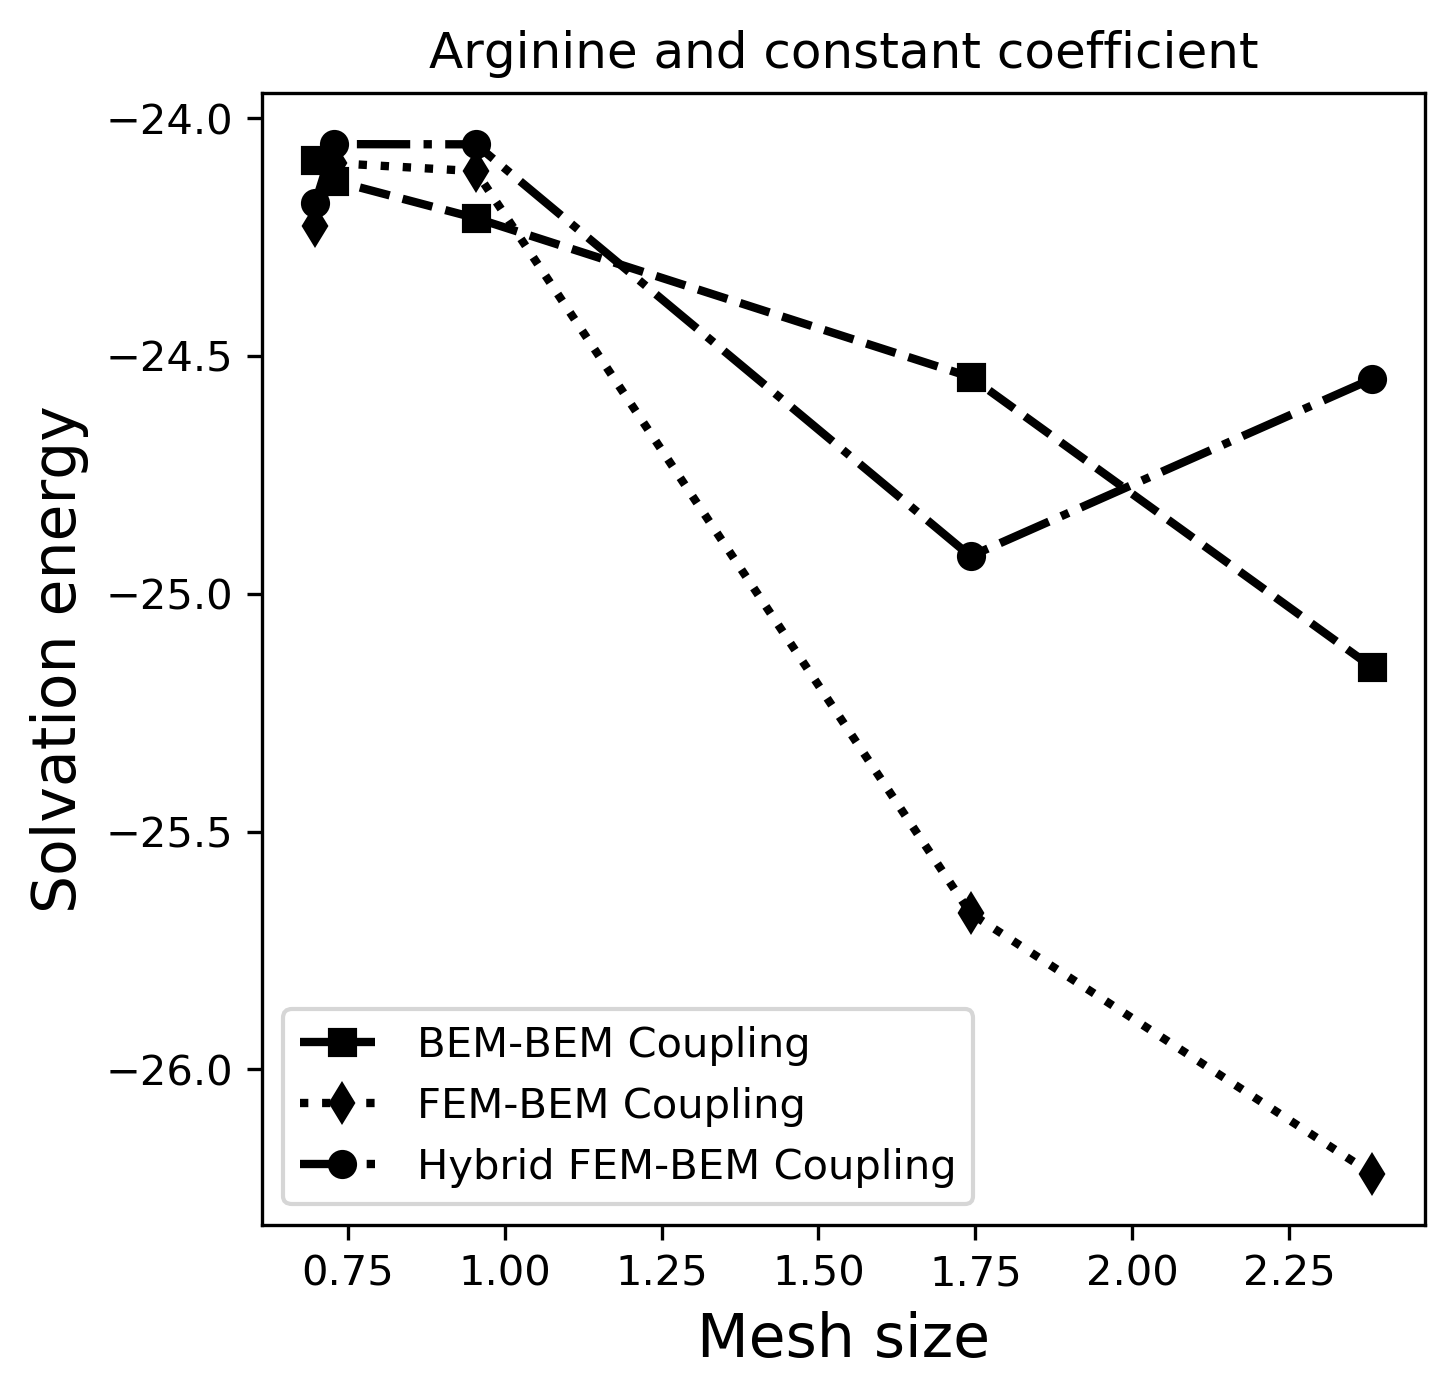
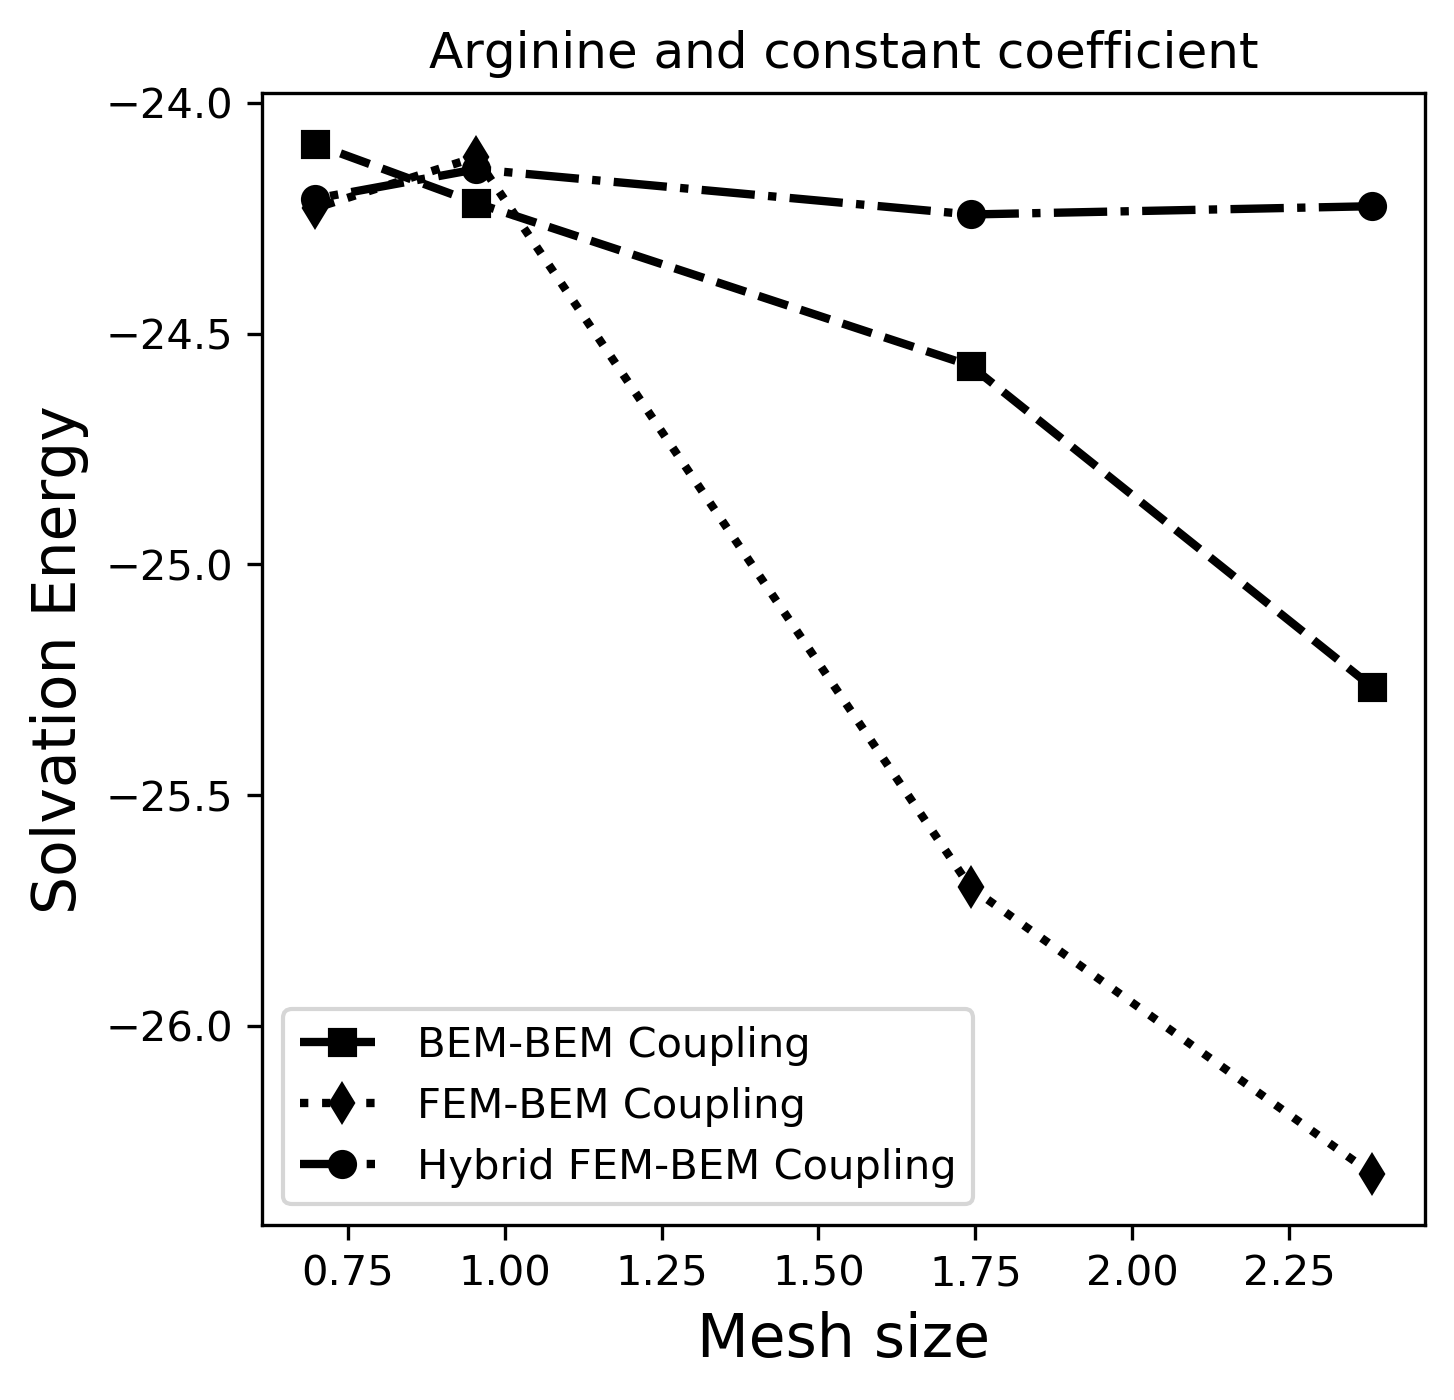
Updated plots and manuscript
I attach plots with preconditioner and without. It give a little more understanding of behaviour of each method, at least I think so. We should discuss that.
In terms of manuscript, I am sorry, it is quite rough draft, but I am struggling with what should be included in terms of mathematics and derivation of methods.

diff --git a/methods.tex b/methods.tex
@@ -3,9 +3,9 @@
 The implicit solvent model can be described mathematically as a coupled system of partial differential equations, where the Poisson-Boltzmann governs in the solvent region ($\Omega_X$ in Figure XX), and the Poisson equation in the solute region ($\Omega_Y$ in Figure XX). These regions are interfaced by the molecular surface ($\Gamma$), where the potential ($\phi$) and electric displacement ($\epsilon\partial\phi/\partial\mathbf{n}$) are continuous. 
 %
 \begin{align}\label{eq:pbe}
-\nabla^2\phi_1(\mathbf{x}) &= \frac{1}{\epsilon}\sum_{k=1}^{N_q} q_k\delta(\mathbf{x},\mathbf{x}_k) \quad  \mathbf{x} \in \Omega_1\nonumber\\
-\left(\nabla^2 - \kappa^2\right)\phi_2 &= 0 \quad\mathbf{x}\in\Omega_2\nonumber\\
-\phi_1 = \phi_2 &\quad \epsilon_1\frac{\partial\phi_1}{\partial\mathbf{n}} = \epsilon_2\frac{\partial\phi_2}{\partial\mathbf{n}} \quad \mathbf{x}\in \Gamma. 
+\nabla^2\phi_1(\mathbf{x}) &= \frac{1}{\epsilon_1}\sum_{k=1}^{N_q} q_k\delta(\mathbf{x},\mathbf{x}_k) \quad  \mathbf{x} \in \Omega_1\nonumber\\
+\left(\nabla^2 - \kappa^2\right)\phi_2(\mathbf{x})  &= 0 \quad\mathbf{x}\in\Omega_2\nonumber\\
+\phi_1(\mathbf{x})  = \phi_2 (\mathbf{x}), &\quad \epsilon_1\frac{\partial\phi_1}{\partial\mathbf{n}}(\mathbf{x})  = \epsilon_2\frac{\partial\phi_2}{\partial\mathbf{n}}(\mathbf{x})  \quad \mathbf{x}\in \Gamma. 
 \end{align}
 %
 where $\epsilon_1$ and $\epsilon_2$ are the dielectric constants in the solute and solvent, respectively, $\kappa$ is the inverse of the Debye length, related with the salt concentration, and $q_k$ are the values of the partial charges, located at $\mathbf{x}_k$.
@@ -13,7 +13,7 @@ where $\epsilon_1$ and $\epsilon_2$ are the dielectric constants in the solute a
 The electrostatic potential in $\Omega_1$ can be further decomposed into singular and regular components as $\phi_1 = \phi_c + \phi_R$, where $\phi_c$ is the solution to
 %
 \begin{align}\label{eq:phic}
-\nabla^2\phi_c(\mathbf{x}) &= \frac{1}{\epsilon_1}\sum_{k=1}^{N_q}q_k\delta(\mathbf{x},\mathbf{x}_k) \quad \mathbf{x}\in\Omega_1\cup\Omega_2\nonumber\\
+\nabla^2\phi_c(\mathbf{x}) &= \frac{1}{\epsilon}\sum_{k=1}^{N_q}q_k\delta(\mathbf{x},\mathbf{x}_k) \quad \mathbf{x}\in\Omega_1\cup\Omega_2\nonumber\\
 \phi_c(\mathbf{x})&=0 \quad \text{ as } |\mathbf{x}|\to\infty
 \end{align}
 
@@ -72,6 +72,54 @@ Even though this formulation is poorly conditioned with respect to the mesh size
 
 \begin{itemize}
     \item Description with constant and variable permittivity 
-    \item Standard BEM-BEM and FEM-BEM coupling approach
+    
+BEM reduces the dimension of the problem by using the boundary integral equation, hence its popularity as a numerical solution of  the Poisson-Boltzmann equation in molecular electrostatics. Unfortunately, such advantage comes also with the cost. A fundamental solution must be found before the BEM can be applied. There are many linear problems for which fundamental solutions are not known. It is a case if we consider the heterogenous permittivity inside the molecule
+   \begin{align} \label{eq:pbe_vp}
+\epsilon_1(\mathbf{x}) \nabla^2\phi_1(\mathbf{x}) &= \sum_{k=1}^{N_q} q_k\delta(\mathbf{x},\mathbf{x}_k) \quad  \mathbf{x} \in \Omega_1\nonumber\\
+\left(\nabla^2 - \kappa^2\right)\phi_2(\mathbf{x})  &= 0 \quad\mathbf{x}\in\Omega_2\nonumber\\
+\phi_1(\mathbf{x})  = \phi_2(\mathbf{x}),  &\quad \epsilon_1(\mathbf{x})\frac{\partial\phi_1}{\partial\mathbf{n}}(\mathbf{x})  = \epsilon_2\frac{\partial\phi_2}{\partial\mathbf{n}}(\mathbf{x})  \quad \mathbf{x}\in \Gamma. 
+\end{align}
+For such case finite element methods (FEM) are more suitable.
+
+The coupling of finite element (FEM) and boundary element (BEM) methods is the most widely used approach for solving multi-physical problems on an unbounded domain. It allows to take advantage of both methods. On the one hand, the BEM approximates only boundary conditions, hence it is commonly used for problems involving infinite or semi-infinite domains. On the other hand, the FEM is known for its robustness and universal applicability even for problem of inhomogeneous or non-linear nature.
+And that is why, we present two formualtions of FEM-BEM coupling for Poisson-Boltzmann equation.
+    
+    \item Standard FEM-BEM coupling approach
+   
+    We start with the variational formulation of the internal problem. Applying integration by parts for first equation of~\eqref{eq:pbe_vp} for every $v \in H_0^1(\Omega_1)$ we have
+\begin{equation}
+\label{eq:fem}
+ \int_{\Omega_1} \epsilon_1 \nabla \phi_1 : \nabla v ~d\mathbf{x}  - \oint_\Gamma \epsilon_1\partial_n \phi_1 v ds =   \int_{\Omega_1}  \sum_{k=1}^{N_q} q_k\delta(\mathbf{x},\mathbf{x}_k)  v ~d\mathbf{x}.
+\end{equation}
+For external problem we use BEM and the same direct formulation as in~\eqref{eq:direct}, hence we obtain
+\begin{align*}
+\frac{\phi_{1,\Gamma}}{2} - K_{Y}^{\Gamma}(\phi_{1,\Gamma}) + \frac{\epsilon_1}{\epsilon_2}V_{Y}^{\Gamma} \left( \frac{\partial}{\partial \mathbf{n}} \phi_{1,\Gamma} \right) & = 0.
+\end{align*}
+
     \item Hybrid FEM-BEM coupling
+    
+    The main difference between the standard and hybrid FEM-BEM formulations is addition of hybrid variable $\widetilde{\phi}$ that is a trace of $\phi_1$ and $\phi_2$ on the interface $\Gamma$ ($\widetilde{\phi} = \phi_1 = \phi_2$ on  $\Gamma$). Both FEM and BEM formulations are modified to include the hybrid variable by adding some terms that enforce the equality of it with the trace of $\phi_1$ and $\phi_2$.
+    The previous standard formulation of interior problem~\eqref{eq:fem} can be rewritten as follows
+\begin{align*}
+ \int_{\Omega_m} \frac{\epsilon_1(\mathbf{x})}{\epsilon_2} \nabla \phi_1 : \nabla v d\mathbf{x} -  \oint_\Gamma \frac{\epsilon_1(\mathbf{x})}{\epsilon_2}  \partial_n \phi_1 v ds
+  & \\
+ -  \oint_\Gamma \frac{\epsilon_1(\mathbf{x})}{\epsilon_2} \partial_n v (\phi_1 - \widetilde{\phi}) ds
+  + \tfrac{\tau_F}{h} \oint_\Gamma \frac{\epsilon_1(\mathbf{x})}{\epsilon_2} (\phi_1 - \widetilde{\phi}) v ds & = \int_{\Omega_1}  \sum_{k=1}^{N_q} q_k\delta(\mathbf{x},\mathbf{x}_k)   v ~d\mathbf{x}.
+\end{align*}
+With every iteration we are solving above problem for given $\widetilde{\phi}$ .
+%We are using FEniCS finite element library, hence the above formulation is more sumilar to the implementation.
+
+In the case of exterior problem of~\eqref{eq:pbe_vp} we use Yukawa kernel and 
+%matrix form, for clarity and similarity with BEMpp implementation. In this case we consider linearised formulation of the Poisson-Boltzman equation that means our operators are built as for modified Helmholtz equation with wavenumber $\kappa$.
+For given $\widetilde{\phi}$, with each iteration we are solving the following system
+\begin{align*}
+V_{Y}^{\Gamma} \lambda  - \left( \tfrac{1}{2}Id + K_{Y}^{\Gamma}  \right) u &= - \widetilde{u},  \\
+ \left( \tfrac{1}{2} Id +  K_{Y}^{',\Gamma}\right)  \lambda + \left(W_{Y}^{\Gamma} + \tau_B Id\right)  u  &= \tau_B  \widetilde{u},
+\end{align*}
+where $K'$ and $W$ are the adjoint double-layer potentials and hypersingular operator for the Yukawa kernel.
+
+Both, the interior and exterior problems have unique solutions for given $\widetilde{u}$. In order to find $\widetilde{u}$ we solve the following problem on $\Gamma$
+$$
+\tau_B \left( u_s - \widetilde{u}\right) + \tfrac{\tau_F}{h} \left( u_m - \widetilde{u}\right) - \left(\frac{\epsilon_m}{\epsilon_s} \partial_n u -\lambda\right)  = 0.
+$$
 \end{itemize}

diff --git a/results.tex b/results.tex
@@ -16,7 +16,7 @@ The Kirkwood sphere [Kirkwood1934] is a standard benchmarck for the Poisson-Bolt
 Here, we considered a spherical cavity with radius $R=2$ \AA, with three charges ($q_1$=1, $q_2$=1, and $q_3$=0.75) placed at $\mathbf{x}_1=(1,0,0)$, $\mathbf{x}_2=(0.7,0.7,0)$, and $\mathbf{x}_3=(-0.5,-0.5,0)$.
 Figure \ref{fig:error_sphere} shows the error convergence of the standard and hybrid FEM-BEM approaches, and a reference BEM implementation, to the analytical solution ($\Delta G_{solv}= -164.33752347454015$ kcal/mol). 
 In these runs, the FEM mesh was generated using Bempp (check?) from a surface discretization with W, X, Y, and Z vertices per \AA$^2$ on the SES, which was also used for the BEM runs. 
-For the hybrid FEM-BEM coupling approach, we used $\tau$=10.
+For the hybrid FEM-BEM coupling approach, we used $\tau$=5.
 
 The error in Figure \ref{fig:error_sphere} decays linearly with the surface area, which agrees with the expected convergence for P1 elements, indicating a correct implementation of the numerical scheme. 
 We can see that the purely BEM implementation outperforms (or not?) FEM-BEM coupling in terms of accuracy for equivalent meshes, and also that the hybrid approach does not (or does?) influence accuracy. 
@@ -86,7 +86,7 @@ We can see that the purely BEM implementation outperforms (or not?) FEM-BEM coup
 As a more realistic test, we assessed the performance of the standard and hybrid FEM-BEM coupling techniques against a purely BEM implementation for arginine [cite arg]. 
 We generated surface meshes containing W, X, Y, and Z vertices per \AA$^2$ with Nanoshaper [Rocchia].
 These meshes were inputs to our purely BEM solver, and to create the FEM mesh with pyGAMer [pygamer], invoking \texttt{tetgen} with the string \texttt{abcd}.
-For the hybrid FEM-BEM coupling approach, we used $\tau$=10.
+For the hybrid FEM-BEM coupling approach, we used $\tau$=5.
 
 Figure \ref{fig:arg_constant_time} compares the time-to-solution with the three schemes, and shows that using only BEM outperforms both coupled FEM-BEM approaches.
 Even though hybrid FEM-BEM is slower than standard FEM-BEM in Figure \ref{fig:arg_constant_time}, the iteration count in Figure \ref{fig:arg_constant_iter} shows that hybrid FEM-BEM needs less iterations (can we compare them?). 
@@ -101,10 +101,13 @@ We can also see that accuracy is not affected (or is?) by considering a FEM regi
 \begin{figure}
 \centering
    \includegraphics[width=0.45\linewidth]{Arginine_const_coeff_error.png}
+   \includegraphics[width=0.45\linewidth]{No_prec_Arginine_const_coeff_error.png}
 %   \includegraphics[width=0.45\linewidth]{Arginine_const_coeff_iter.png}
-  \includegraphics[width=0.6\linewidth]{Arginine_const_coeff_time.png}
-\caption{Time-to-solution for arginine with a constant permittivity. %(1) fix title, (2) can we put them in a single plot, (3) 
-maybe we could also add a "error" wrt extrapolation, or a plot with energy for each mesh?}
+  \includegraphics[width=0.45\linewidth]{Arginine_const_coeff_time.png}
+  \includegraphics[width=0.45\linewidth]{No_prec_Arginine_const_coeff_time.png}
+\caption{Time-to-solution for arginine with a constant permittivity (left: Preconditioned systems, right: No preconditioner).  %(1) fix title, (2) can we put them in a single plot, (3) 
+%maybe we could also add a "error" wrt extrapolation, or a plot with energy for each mesh?
+}
 \label{fig:arg_contant_time}
 \end{figure}
 
@@ -112,9 +115,10 @@ maybe we could also add a "error" wrt extrapolation, or a plot with energy for e
 \begin{figure}
 \centering
 %   \includegraphics[width=0.45\linewidth]{Arginine_const_coeff_error.png}
-  \includegraphics[width=0.6\linewidth]{Arginine_const_coeff_iter.png}
+  \includegraphics[width=0.45\linewidth]{Arginine_const_coeff_iter.png}
+  \includegraphics[width=0.45\linewidth]{No_prec_Arginine_const_coeff_iter.png}
 %   \includegraphics[width=0.45\linewidth]{Arginine_const_coeff_time.png}
-\caption{Iteration count for arginine with a constant permittivity. %(1) fix title, (2) can we put them in a single plot, (3) hybrid is internal or external iterations? maybe we should present the total count?
+\caption{Iteration count for arginine with a constant permittivity (left: Preconditioned systems, right: No preconditioner). %(1) fix title, (2) can we put them in a single plot, (3) hybrid is internal or external iterations? maybe we should present the total count?
 }
 \label{fig:arg_contant_iter}
 \end{figure}
